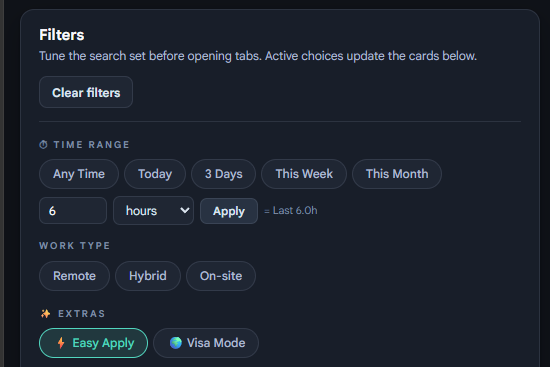
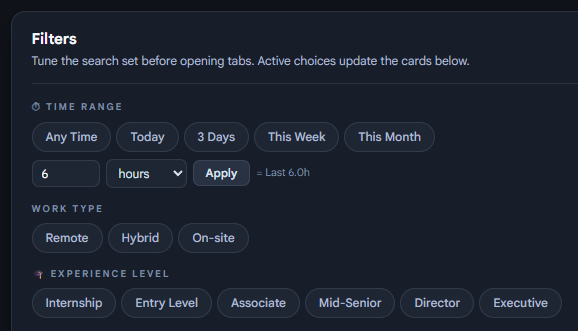
add experience level and under-10-applicants filters with documentation and updated screenshots

diff --git a/README.md b/README.md
@@ -27,7 +27,9 @@ Add any country by name, emoji flag, and LinkedIn GeoId. In **Manage Countries**
 ### ⏱ Smart Filters — All Persisted
 - **Time Range** — Any Time, Today, 3 Days, This Week, This Month, or a custom value (e.g. "last 6 hours")
 - **Work Type** — Remote, Hybrid, On-site (multi-select)
+- **Experience Level** — Internship, Entry Level, Associate, Mid-Senior Level, Director, Executive (multi-select)
 - **Easy Apply** — filter to jobs you can apply for without leaving LinkedIn
+- **Under 10 Applicants** — filter for jobs with fewer than 10 applicants
 - **Visa Mode** — appends "visa sponsorship" to searches in countries where you're *not* authorized to work
 - **Tab Speed** — throttle how fast new tabs open so your browser doesn't panic
 
@@ -125,6 +127,13 @@ In **Manage Countries**, the **✓ Authorized** toggle marks countries where you
 
 ![Visa Mode + Authorized Countries](Screenshots/image-5.png)
 
+### Easy Apply & Under 10 Applicants
+Quickly filter search outputs to target the most accessible roles:
+- **⚡ Easy Apply**: Filters LinkedIn searches to show only jobs that support LinkedIn's streamlined application process.
+- **🔥 Under 10 Applicants**: Filters searches to show only jobs with fewer than 10 applicants to maximize your early-applicant advantage.
+
+![Easy Apply & Under 10 Applicants](Screenshots/image-8.png)
+
 ### Script Download Panel (.bat / .sh)
 The action bar now includes a **Script** group with four options: `.bat Selected`, `.bat All`, `.sh Selected`, `.sh All`. The `.sh` option works on both Linux and macOS.
 
@@ -218,7 +227,9 @@ https://www.linkedin.com/jobs/search/?
   &distance=25
   &f_TPR=r604800
   &f_LF=f_AL
+  &f_EA=true
   &f_WT=2,3
+  &f_E=2,3,4
 ```
 
 Parameters used:
@@ -229,7 +240,9 @@ Parameters used:
 | `distance` | Search radius in miles (fixed at 25) |
 | `f_TPR` | Time posted range (e.g. `r604800` = last 7 days) |
 | `f_LF` | `f_AL` = Easy Apply only |
+| `f_EA` | `true` = Under 10 applicants only |
 | `f_WT` | Work type: `1`=On-site, `2`=Remote, `3`=Hybrid |
+| `f_E` | Experience level: `1`=Internship, `2`=Entry Level, `3`=Associate, `4`=Mid-Senior, `5`=Director, `6`=Executive |
 
 ---
 